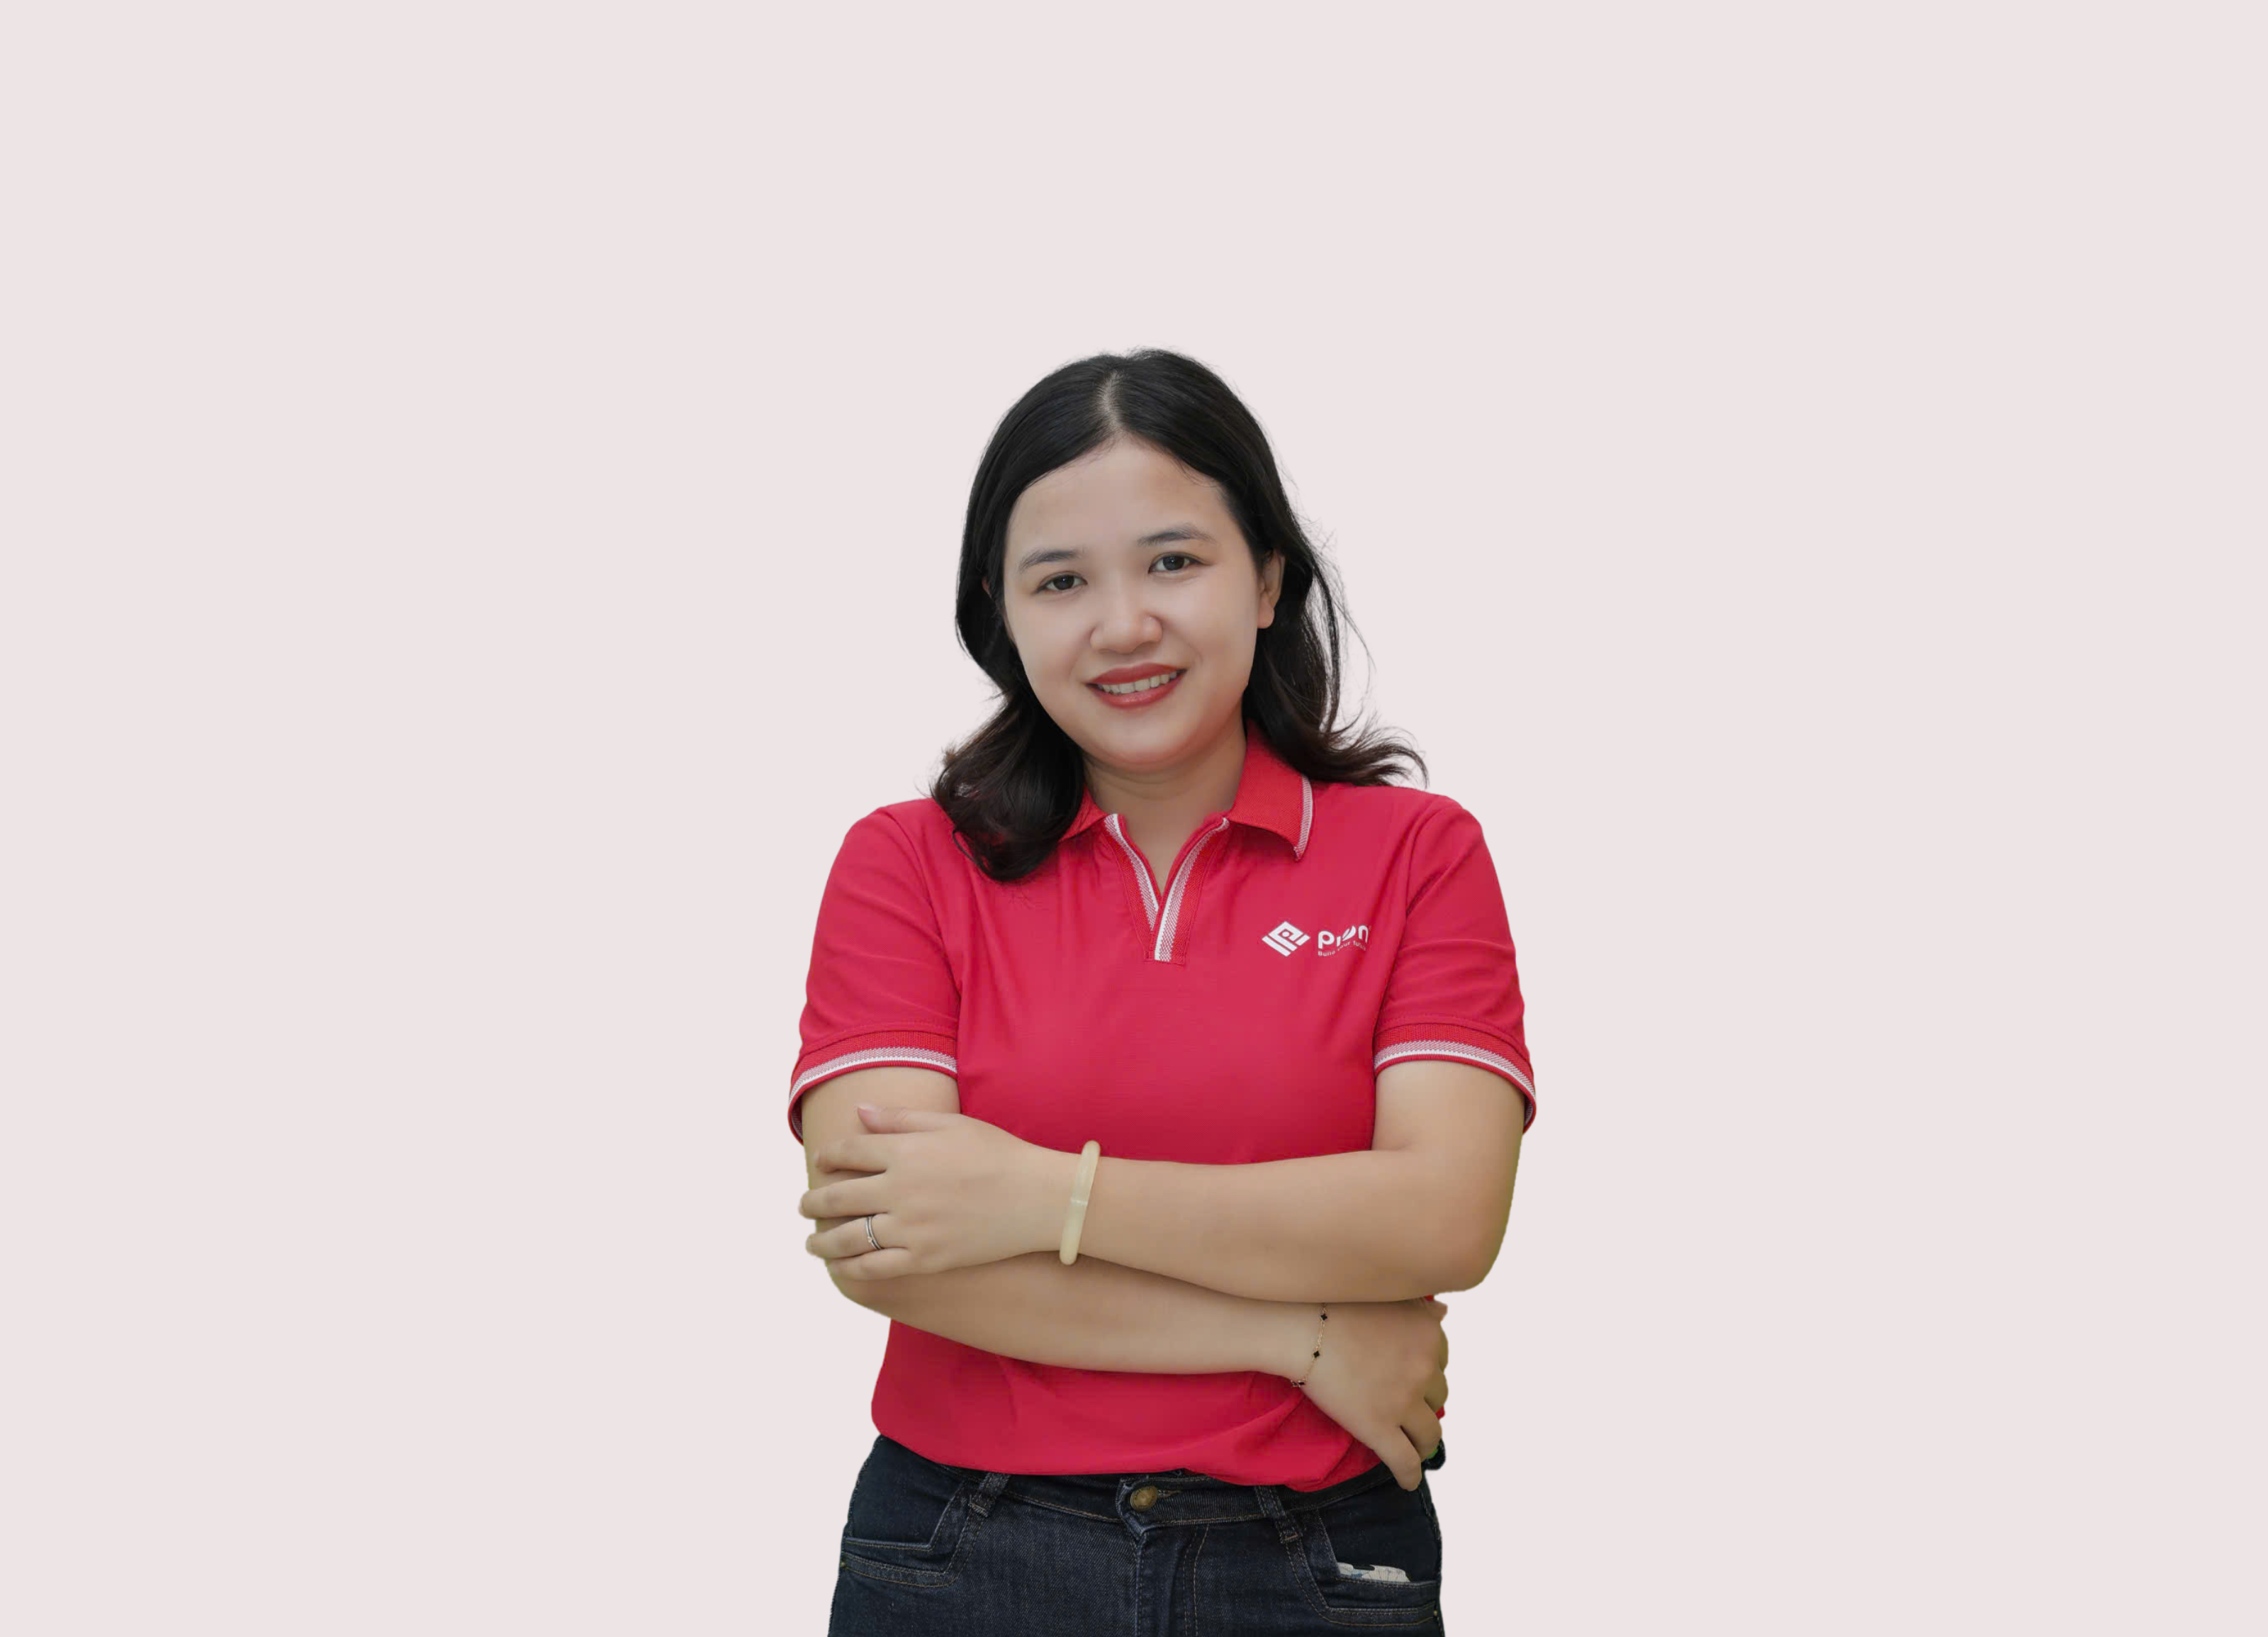
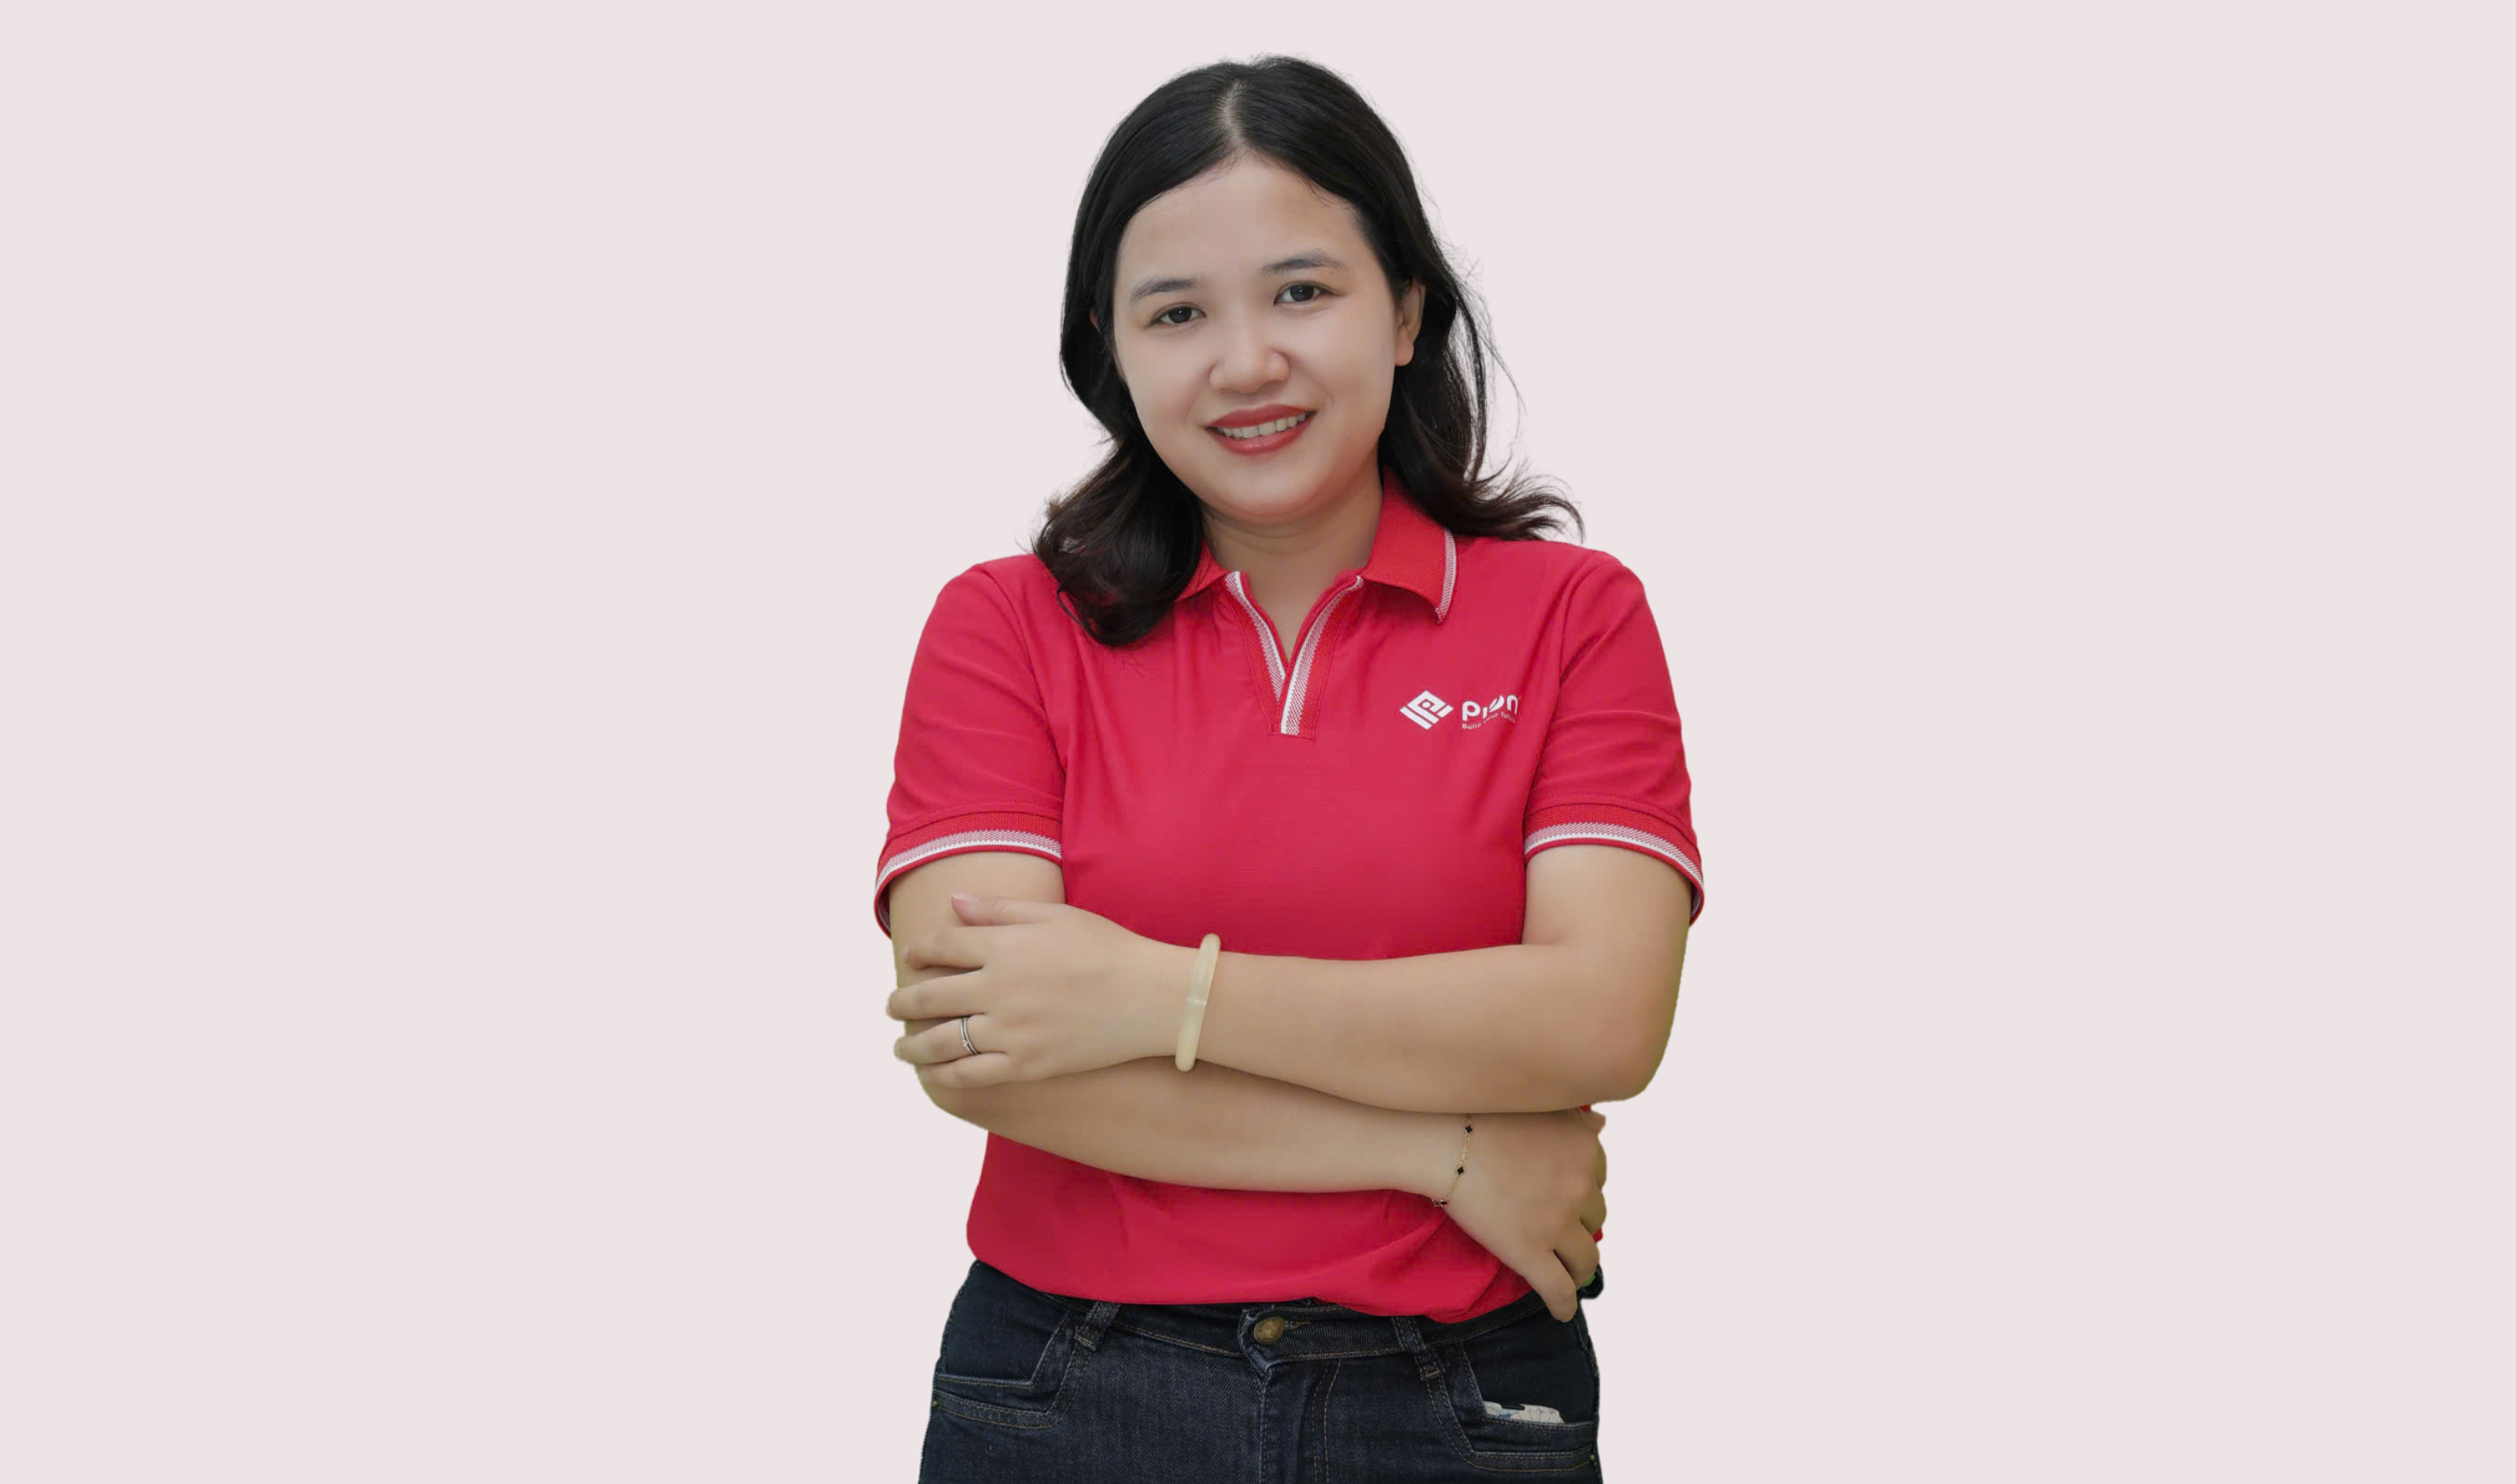
refactor: update content and image jobs

Changed region(s): [[0.3438, 0.0312, 0.6875, 1.0]]

diff --git a/src/data/jobs.js b/src/data/jobs.js
@@ -1,5 +1,6 @@
 // Title must difference
 const jobs = [
+    // Giáo viên
     {
         id: 'job_01',
         slug: 'giao-vien-viet-nam',
@@ -46,7 +47,7 @@ const jobs = [
             'Thời gian nghỉ trưa: 11:30 - 13:15',
         ],
         application_process: [
-            'Gửi CV và đơn ứng tuyển qua email: [email redacted]',
+            'Gửi CV và đơn ứng tuyển qua email: [email redacted]',
             'Tham gia phỏng vấn chuyên môn với HR.',
             'Thực hiện bài giảng mẫu trước khi ký hợp đồng.',
             'Hoàn tất hồ sơ và bắt đầu làm việc.',
@@ -108,187 +109,137 @@ const jobs = [
             'Lunch break: 11:30 - 13:15',
         ],
         application_process: [
-            'Submit CV and application via email: [email redacted]',
+            'Submit CV and application via email: [email redacted]',
             'Attend a professional interview with HR.',
             'Conduct a teaching demo before signing the contract.',
             'Complete necessary documents and start working.',
         ],
         image: '/assets/img/jobs/foreign_teacher_02.jpg',
     },
+
+    // Chuyên viên tư vấn tuyển sinh và du học
     {
         id: 'job_03',
-        slug: 'chuyen-vien-tu-van-tuyen-sinh-kiem-le-tan',
-        title: 'Chuyên viên tư vấn tuyển sinh kiêm lễ tân',
-        link: '/tuyen-dung/chuyen-vien-tu-van-tuyen-sinh-kiem-le-tan',
-        position: 'Chuyên viên tư vấn tuyển sinh kiêm lễ tân',
+        slug: 'tu-van-tuyen-sinh-va-du-hoc',
+        title: 'Tư vấn tuyển sinh và du học',
+        link: '/tuyen-dung/tu-van-tuyen-sinh-va-du-hoc',
+        position: 'Chuyên viên tư vấn tuyển sinh và du học',
         location:
             '125 Lê Lợi, Phường Bồng Sơn, Gia Lai (Địa chỉ cũ: 125 Lê Lợi, Phường Bồng Sơn, Thị xã Hoài Nhơn, Tỉnh Bình Định )',
-        salary: 'Lương theo Thỏa thuận',
+        salary: 'Cơ bản  + Lương hiệu quả + Hoa hồng tuyển sinh',
         quantity: '02',
-        experience: 'Không yêu cầu kinh nghiệm, ưu tiên có kinh nghiệm chăm sóc khách hàng.',
-        deadline: '30/06/2025',
-        desc: 'Chịu trách nhiệm tư vấn tuyển sinh, quản lý hồ sơ học viên, hỗ trợ giáo viên và thực hiện các công việc hành chính tại trung tâm. Công việc bao gồm lập chiến lược marketing, chăm sóc khách hàng, theo dõi tiến trình học tập, và quản lý lễ tân.',
+        experience: 'Ưu tiên có kinh nghiệm trong lĩnh vực tư vấn giáo dục / du học.',
+        deadline: '30/12/2025',
+        desc: 'Tư vấn tuyển sinh, hỗ trợ hồ sơ du học, chăm sóc học viên, phối hợp marketing và quản lý hành chính tại trung tâm.',
         description_list: [
-            'Lên chiến lược marketing định kỳ hàng tháng để thu hút học viên.',
-            'Lên ý tưởng tổ chức sự kiện hàng năm (tối thiểu 1 lần/năm).',
-            'Tư vấn tuyển sinh theo chương trình đào tạo của trung tâm.',
-            'Tư vấn về sản phẩm, chương trình học theo quy chế quy định.',
-            'Thực hiện marketing online và offline: đăng bài trên Facebook, fanpage, quay video học sinh.',
-            'Tổ chức các buổi học thử cho học viên và phụ huynh.',
-            'Gọi điện tư vấn/ tư vấn trực tiếp về chương trình học và học phí.',
-            'Theo dõi hồ sơ học viên: nhập thông tin vào phần mềm quản lý (điểm danh, bảo lưu kết quả, chuyển lớp, học phí…).',
-            'Chăm sóc khách hàng, xử lý khiếu nại và phản hồi từ phụ huynh.',
-            'Theo dõi giáo viên – trợ giảng: ngày công, bảng chấm công, lương thưởng, lịch dạy.',
-            'Hỗ trợ tuyển dụng giáo viên, trợ giảng khi cần.',
-            'Trực điện thoại, hỗ trợ lễ tân.',
-            'Quản lý công việc hành chính: cấp phát văn phòng phẩm, thanh toán định kỳ (điện, nước, internet…).',
-            'Đề xuất mở lớp học mới.',
-            'Quản lý phần mềm quản trị trung tâm: cập nhật danh sách học viên, thu học phí, kiểm tra đầu vào.',
-            'Thu học phí của học viên hàng tháng.',
+            'Tư vấn chương trình đào tạo, khóa học và học bổng du học Trung Quốc, Đài Loan',
+            'Hỗ trợ học viên hoàn thiện hồ sơ đăng ký, visa, và nhập học.',
+            'Chăm sóc khách hàng trước – trong – sau khóa học.',
+            'Phối hợp với phòng Marketing trong hoạt động truyền thông.',
+            'Báo cáo kết quả kinh doanh và đóng góp sáng kiến phát triển thị trường.',
         ],
         requirements: [
-            'Đang là sinh viên hoặc tốt nghiệp từ trung cấp trở lên.',
-            'Giọng nói dễ nghe, lưu loát.',
-            'Vui vẻ, hòa nhã, khả năng xử lý tình huống linh hoạt.',
-            'Yêu trẻ và có khả năng làm việc dưới áp lực cao.',
+            'Tốt nghiệp Cao đẳng trở lên (ưu tiên ngành Kinh doanh, Marketing, Giáo dục).',
+            'Thành thạo tin học văn phòng.',
+            'Kỹ năng giao tiếp, thuyết phục tốt.',
+            'Có khả năng làm việc nhóm, chịu được áp lực doanh số.',
+            'Ưu tiên ứng viên có ngoại ngữ (Anh hoặc Trung).',
         ],
         benefits: [
-            'Mức lương theo thỏa thuận, thưởng theo hiệu suất làm việc.',
-            'Môi trường làm việc chuyên nghiệp, năng động.',
-            'Cơ hội đào tạo, nâng cao chuyên môn và kỹ năng.',
-            'Được công ty cung cấp sim điện thoại, máy vi tính, văn phòng phẩm.',
-            'Chế độ hỗ trợ khác theo chính sách công ty.',
+            'Lương cơ bản + Lương hiệu quả + Hoa hồng hấp dẫn',
+            'Môi trường chuyên nghiệp, cơ hội học hỏi và thăng tiến.',
+            'Được đào tạo bài bản về nghiệp vụ tư vấn và kỹ năng giao tiếp.',
         ],
         working_hours: [
-            'Làm việc từ thứ Hai đến Chủ Nhật, được chọn 01 ngày nghỉ bất kỳ trong tuần.',
-            'Ca làm việc linh hoạt: 07:30 – 17:15, 13:15 – 21:15, 07:30 – 11:30, 17:15 – 21:15 (Chỉ áp dụng cho giáo viên)',
+            'Làm việc từ Thứ Hai đến Chủ Nhật, được nghỉ 1 ngày/tuần.',
+            'Ca làm việc linh hoạt: 07:30 – 17:15, 13:15 – 21:15, 07:30 – 11:30, 17:15 – 21:15',
             'Thời gian nghỉ trưa: 11:30 - 13:15',
         ],
-        application_process: [
-            'Gửi CV và đơn ứng tuyển qua email: [email redacted]',
-            'Tham gia phỏng vấn chuyên môn với HR.',
-            'Thực hiện bài giảng mẫu trước khi ký hợp đồng.',
-            'Hoàn tất hồ sơ và bắt đầu làm việc.',
-        ],
-        image: '/assets/img/jobs/kiem_le_tan.jpg',
+        application_process: ['Gửi CV qua email: [email redacted]', 'Tham gia phỏng vấn và thử việc trong 2 tháng.'],
+        image: '/assets/img/jobs/nv_tuyen_sinh.png',
     },
+
+    // Nhân viên hành chính – kế toán
     {
         id: 'job_04',
-        slug: 'ke-toan-kiem-hanh-chinh-nhan-su',
-        title: 'Kế toán kiêm hành chính nhân sự',
-        link: '/tuyen-dung/ke-toan-kiem-hanh-chinh-nhan-su',
-        position: 'Kế toán - Hành chính nhân sự',
+        slug: 'nhan-vien-hanh-chinh-ke-toan',
+        title: 'Nhân viên hành chính – kế toán',
+        link: '/tuyen-dung/nhan-vien-hanh-chinh-ke-toan',
+        position: 'Nhân viên hành chính – kế toán',
         location:
             '125 Lê Lợi, Phường Bồng Sơn, Gia Lai (Địa chỉ cũ: 125 Lê Lợi, Phường Bồng Sơn, Thị xã Hoài Nhơn, Tỉnh Bình Định )',
         salary: 'Lương theo thỏa thuận',
         quantity: '01',
-        experience: 'Tối thiểu 1 năm kinh nghiệm làm kế toán.',
-        deadline: '30/06/2025',
-        desc: 'Chịu trách nhiệm quản lý tài chính, kế toán, nhân sự và hành chính tại trung tâm. Công việc bao gồm theo dõi thu chi, lập báo cáo tài chính, quản lý nhân sự, kiểm kê tài sản và xử lý hồ sơ hành chính.',
+        experience: 'Tối thiểu 1 năm làm kế toán / hành chính.',
+        deadline: '30/12/2025',
+        desc: 'Thực hiện hành chính, kế toán, nhân sự; theo dõi tài chính, quản lý hồ sơ và hỗ trợ vận hành trung tâm.',
         description_list: [
-            'Quản lý hồ sơ, giấy tờ, sổ sách của công ty.',
-            'Theo dõi và xử lý hồ sơ liên quan đến mua bán, làm việc với nhà cung cấp để kiểm tra và kiểm soát giá cả.',
-            'Tuyển dụng và quản lý nhân sự.',
-            'Xử lý bảng lương và bảo hiểm xã hội.',
-            'Quản lý hồ sơ hành chính liên quan đến giáo viên nước ngoài (visa, giấy phép lao động, thẻ tạm trú, xuất nhập cảnh).',
-            'Chuẩn bị tài liệu và hồ sơ cho các kỳ kiểm tra của Sở - Phòng Giáo dục.',
-            'Báo cáo hệ thống mạng Sở - Phòng Giáo dục theo yêu cầu.',
-            'Theo dõi thu chi, lập kế hoạch dự toán chi phí hàng tháng.',
-            'Lập sổ quỹ tiền mặt, theo dõi học phí thu được tại trung tâm.',
-            'Lập báo cáo tài chính nội bộ.',
-            'Thống kê tài sản, hóa đơn làm việc với kế toán thuế để bàn giao hàng quý.',
-            'Kiểm kê định kỳ, ghi chép sổ sách và cập nhật báo cáo thu chi hàng ngày.',
-            'Lập và phát hành hóa đơn điện tử.',
-            'Liên hệ với cơ quan thuế để làm báo cáo tài chính theo quý và năm.',
-            'Hỗ trợ ban lãnh đạo trong các hoạt động hành chính và tài chính của công ty.',
-            'Báo cáo hoạt động trung tâm định kỳ vào ngày 30 hàng tháng, bao gồm kết quả kinh doanh, tình hình nhân sự và cơ sở vật chất.',
+            'Thực hiện nghiệp vụ hành chính, nhân sự, kế toán tổng hợp.',
+            'Theo dõi thu chi, lập báo cáo tài chính theo quý và năm.',
+            'Quản lý hợp đồng, hồ sơ nhân sự, hồ sơ Bảo hiểm xã hội.',
+            'Chuẩn bị hồ sơ làm việc với cơ quan hành chính nhà nước.',
+            'Quản lý tài sản, văn phòng phẩm, lưu trữ chứng từ kế toán.',
         ],
         requirements: [
-            'Tốt nghiệp chuyên ngành kế toán.',
-            'Có kinh nghiệm làm kế toán từ 1 năm trở lên.',
-            'Trung thực, tỉ mỉ, có trách nhiệm với công việc.',
-            'Vui vẻ, hòa nhã, có kỹ năng xử lý tình huống linh hoạt.',
-            'Có khả năng chịu áp lực công việc cao.',
+            'Tốt nghiệp Cao đẳng trở lên ngành Kế toán / Hành chính / Quản trị.',
+            'Cẩn thận, trung thực, có tinh thần trách nhiệm cao.',
+            'Thành thạo Excel, Word và phần mềm kế toán.',
         ],
         benefits: [
-            'Mức lương theo thỏa thuận, thưởng theo hiệu suất làm việc.',
-            'Môi trường làm việc chuyên nghiệp, năng động.',
-            'Cơ hội đào tạo, nâng cao chuyên môn và kỹ năng.',
-            'Được công ty cung cấp sim điện thoại, máy vi tính, văn phòng phẩm.',
-            'Chế độ hỗ trợ khác theo chính sách công ty.',
+            'Mức lương ổn định, thưởng hiệu suất và phúc lợi đầy đủ.',
+            'Được đóng BHXH, BHYT, nghỉ lễ theo quy định nhà nước.',
+            'Cơ hội phát triển nghề nghiệp trong hệ thống giáo dục.',
         ],
         working_hours: [
-            'Làm việc từ thứ Hai đến Chủ Nhật, được chọn 01 ngày nghỉ bất kỳ trong tuần.',
-            'Ca làm việc linh hoạt: 07:30 – 17:15, 13:15 – 21:15, 07:30 – 11:30, 17:15 – 21:15 (Chỉ áp dụng cho giáo viên)',
+            'Làm việc từ thứ Hai đến Chủ Nhật, được nghỉ 1 ngày/tuần',
+            'Thời gian làm việc: 07:30 – 17:15 (Ca hành chính)',
+            'Thời gian nghỉ trưa: 11:30 - 13:15',
+        ],
+        application_process: ['Gửi CV qua email: [email redacted]', 'Tham gia phỏng vấn và thử việc trong 2 tháng.'],
+        image: '/assets/img/jobs/nv_ke_toan.png',
+    },
+
+    // Nhân viên Marketing
+    {
+        id: 'job_05',
+        slug: 'nhan-vien-marketing',
+        title: 'Nhân viên Marketing',
+        link: '/tuyen-dung/nhan-vien-marketing',
+        position: 'Nhân viên Marketing',
+        location:
+            '125 Lê Lợi, Phường Bồng Sơn, Gia Lai (Địa chỉ cũ: 125 Lê Lợi, Phường Bồng Sơn, Thị xã Hoài Nhơn, Tỉnh Bình Định )',
+        salary: 'Cơ bản + Lương hiệu quả + Thưởng KPI',
+        quantity: '02',
+        experience: 'Ưu tiên có kinh nghiệm trong ngành giáo dục hoặc marketing số.',
+        deadline: '30/12/2025',
+        desc: 'Thực hiện marketing tổng thể, quản lý truyền thông đa kênh, viết nội dung, thiết kế cơ bản và hỗ trợ tuyển sinh.',
+        description_list: [
+            'Lên kế hoạch và triển khai chiến dịch marketing online/offline tổng thể.',
+            'Quản lý Fanpage, Website, kênh TikTok và các kênh truyền thông khác của trung tâm.',
+            'Viết nội dung (content writing), viết bài chuẩn SEO, thiết kế poster, video quảng cáo cơ bản.',
+            'Hỗ trợ các chương trình truyền thông tuyển sinh, sự kiện học viên.',
+            'Phối hợp chặt chẽ với bộ phận Tư vấn để tăng hiệu quả quảng bá khóa học.',
+        ],
+        requirements: [
+            'Tốt nghiệp Cao đẳng trở lên chuyên ngành Marketing, Truyền thông, hoặc liên quan.',
+            'Biết sử dụng cơ bản Canva, CapCut, các nền tảng mạng xã hội.',
+            'Sáng tạo, có khả năng viết nội dung thu hút và lên ý tưởng chiến dịch.',
+        ],
+        benefits: [
+            'Lương cơ bản + Lương hiệu quả+ thưởng theo hiệu quả công việc (KPI).',
+            'Cơ hội được đào tạo chuyên sâu về kỹ năng Digital Marketing.',
+            'Làm việc trong môi trường năng động, trẻ trung, sáng tạo.',
+        ],
+        working_hours: [
+            'Làm việc từ thứ Hai đến Chủ Nhật, được nghỉ 1 ngày/tuần',
+            'Thời gian làm việc: 07:30 – 17:15 (Ca hành chính)',
             'Thời gian nghỉ trưa: 11:30 - 13:15',
         ],
         application_process: [
-            'Gửi CV và đơn ứng tuyển qua email: [email redacted]',
-            'Tham gia phỏng vấn chuyên môn với HR.',
-            'Thực hiện bài giảng mẫu trước khi ký hợp đồng.',
-            'Hoàn tất hồ sơ và bắt đầu làm việc.',
+            'Gửi CV và Portfolio (các sản phẩm/dự án đã thực hiện, nếu có) qua email: [email redacted]',
+            'Tham gia phỏng vấn và thử việc trong 2 tháng.',
         ],
-        image: '/assets/img/jobs/ke_toan.jpg',
-    },
-    {
-        id: 'job_05',
-        slug: 'chuyen-vien-tu-van-tuyen-sinh-khoa-hoc-va-du-hoc',
-        title: 'Chuyên viên tư vấn tuyển sinh khóa học và du học',
-        link: '/tuyen-dung/chuyen-vien-tu-van-tuyen-sinh-khoa-hoc-va-du-hoc',
-        position: 'Chuyên viên tư vấn tuyển sinh (Khóa học + Du học)',
-        location:
-            '125 Lê Lợi, Phường Bồng Sơn, Gia Lai (Địa chỉ cũ: 125 Lê Lợi, Phường Bồng Sơn, Thị xã Hoài Nhơn, Tỉnh Bình Định )',
-        salary: 'Lương theo thỏa thuận',
-        quantity: '02',
-        experience: 'Ưu tiên có kinh nghiệm 1 năm trong lĩnh vực tư vấn du học hoặc khóa học.',
-        deadline: '30/06/2025',
-        desc: 'Chịu trách nhiệm tư vấn tuyển sinh các chương trình học và du học, chăm sóc học viên, quản lý lịch học, và hỗ trợ hoạt động marketing để thu hút khách hàng. Công việc bao gồm hướng dẫn lộ trình học tập, tư vấn chọn trường du học, xử lý hồ sơ du học và xây dựng thương hiệu trung tâm.',
-        description_list: [
-            'Tư vấn các chương trình đào tạo, lộ trình học tập, học phí và chính sách ưu đãi.',
-            'Tổ chức các buổi học thử để học viên trải nghiệm thực tế.',
-            'Chăm sóc khách hàng từ giai đoạn tìm hiểu đến khi đăng ký khóa học.',
-            'Tư vấn chọn quốc gia, trường học, khóa học phù hợp với nhu cầu và khả năng tài chính của học sinh.',
-            'Hỗ trợ làm hồ sơ nhập học, xin visa và chuẩn bị trước khi du học.',
-            'Theo dõi và cập nhật tình trạng hồ sơ du học với các đối tác trường học.',
-            'Duy trì và phát triển mối quan hệ với đối tác tuyển sinh và du học.',
-            'Theo dõi tiến trình học tập của học viên, cập nhật dữ liệu vào phần mềm.',
-            'Giải quyết các vấn đề liên quan đến học phí, lịch học bù và phí dịch vụ du học.',
-            'Chăm sóc và giải quyết thắc mắc của phụ huynh, học viên.',
-            'Xếp lịch học và thời khóa biểu hàng tháng, điều chỉnh khi có thay đổi.',
-            'Lên kế hoạch marketing hàng tháng để đạt chỉ tiêu tuyển sinh.',
-            'Phân tích thị trường, đề xuất chiến lược quảng bá hiệu quả.',
-            'Đăng bài trên Fanpage, Zalo, Tiktok, và các nền tảng mạng xã hội khác.',
-            'Tạo nội dung thương hiệu: Video ngắn, bài viết về khóa học và du học (tối thiểu 2 video/ngày, 2 bài viết/ngày).',
-            'Tăng nhận diện thương hiệu bằng mini-game, livestream, quảng cáo Facebook/TikTok.',
-            'Duy trì lịch đăng bài và tương tác với học viên, phụ huynh.',
-        ],
-        requirements: [
-            'Từ 22 - 35 tuổi, sức khỏe tốt.',
-            'Tốt nghiệp đại học hoặc cao đẳng, ưu tiên ngành ngoại ngữ, quản trị kinh doanh, hoặc giáo dục.',
-            'Biết tiếng Anh, Tiếng Trung là lợi thế.',
-            'Sử dụng thành thạo công cụ văn phòng (Word, Excel, PowerPoint).',
-            'Kỹ năng giao tiếp tốt, thuyết phục và giải quyết vấn đề linh hoạt.',
-            'Ưu tiên có kinh nghiệm 1 năm trong lĩnh vực tư vấn khóa học hoặc du học.',
-            'Hiểu biết về nhu cầu lao động và xu hướng du học tại địa phương là lợi thế.',
-        ],
-        benefits: [
-            'Mức lương theo thỏa thuận, thưởng theo hiệu suất làm việc.',
-            'Môi trường làm việc chuyên nghiệp, năng động.',
-            'Cơ hội đào tạo, nâng cao chuyên môn và kỹ năng.',
-            'Được công ty cung cấp sim điện thoại, máy vi tính, văn phòng phẩm.',
-            'Chế độ hỗ trợ khác theo chính sách công ty.',
-        ],
-        working_hours: [
-            'Làm việc từ thứ Hai đến thứ Bảy, nghỉ Chủ Nhật.',
-            'Thời gian làm việc: Buổi sáng từ 07:30 - 11:30, Buổi chiều từ 13:15 - 17:15.',
-        ],
-        application_process: [
-            'Gửi CV và đơn ứng tuyển qua email: [email redacted]',
-            'Tham gia phỏng vấn chuyên môn với HR.',
-            'Thực hiện bài giảng mẫu trước khi ký hợp đồng.',
-            'Hoàn tất hồ sơ và bắt đầu làm việc.',
-        ],
-        image: '/assets/img/jobs/tu_van_du_hoc_xkld.jpg',
+        image: '/assets/img/jobs/nv_marketing.png',
     },
     // {
     //     id: 'job_06',
@@ -334,7 +285,7 @@ const jobs = [
     //         'Thời gian làm việc: Buổi sáng từ 07:30 - 11:30, Buổi chiều từ 13:15 - 17:15.',
     //     ],
     //     application_process: [
-    //         'Gửi CV và đơn ứng tuyển qua email: [email redacted]',
+    //         'Gửi CV và đơn ứng tuyển qua email: [email redacted]',
     //         'Tham gia phỏng vấn chuyên môn với HR.',
     //         'Thực hiện bài giảng mẫu trước khi ký hợp đồng.',
     //         'Hoàn tất hồ sơ và bắt đầu làm việc.',